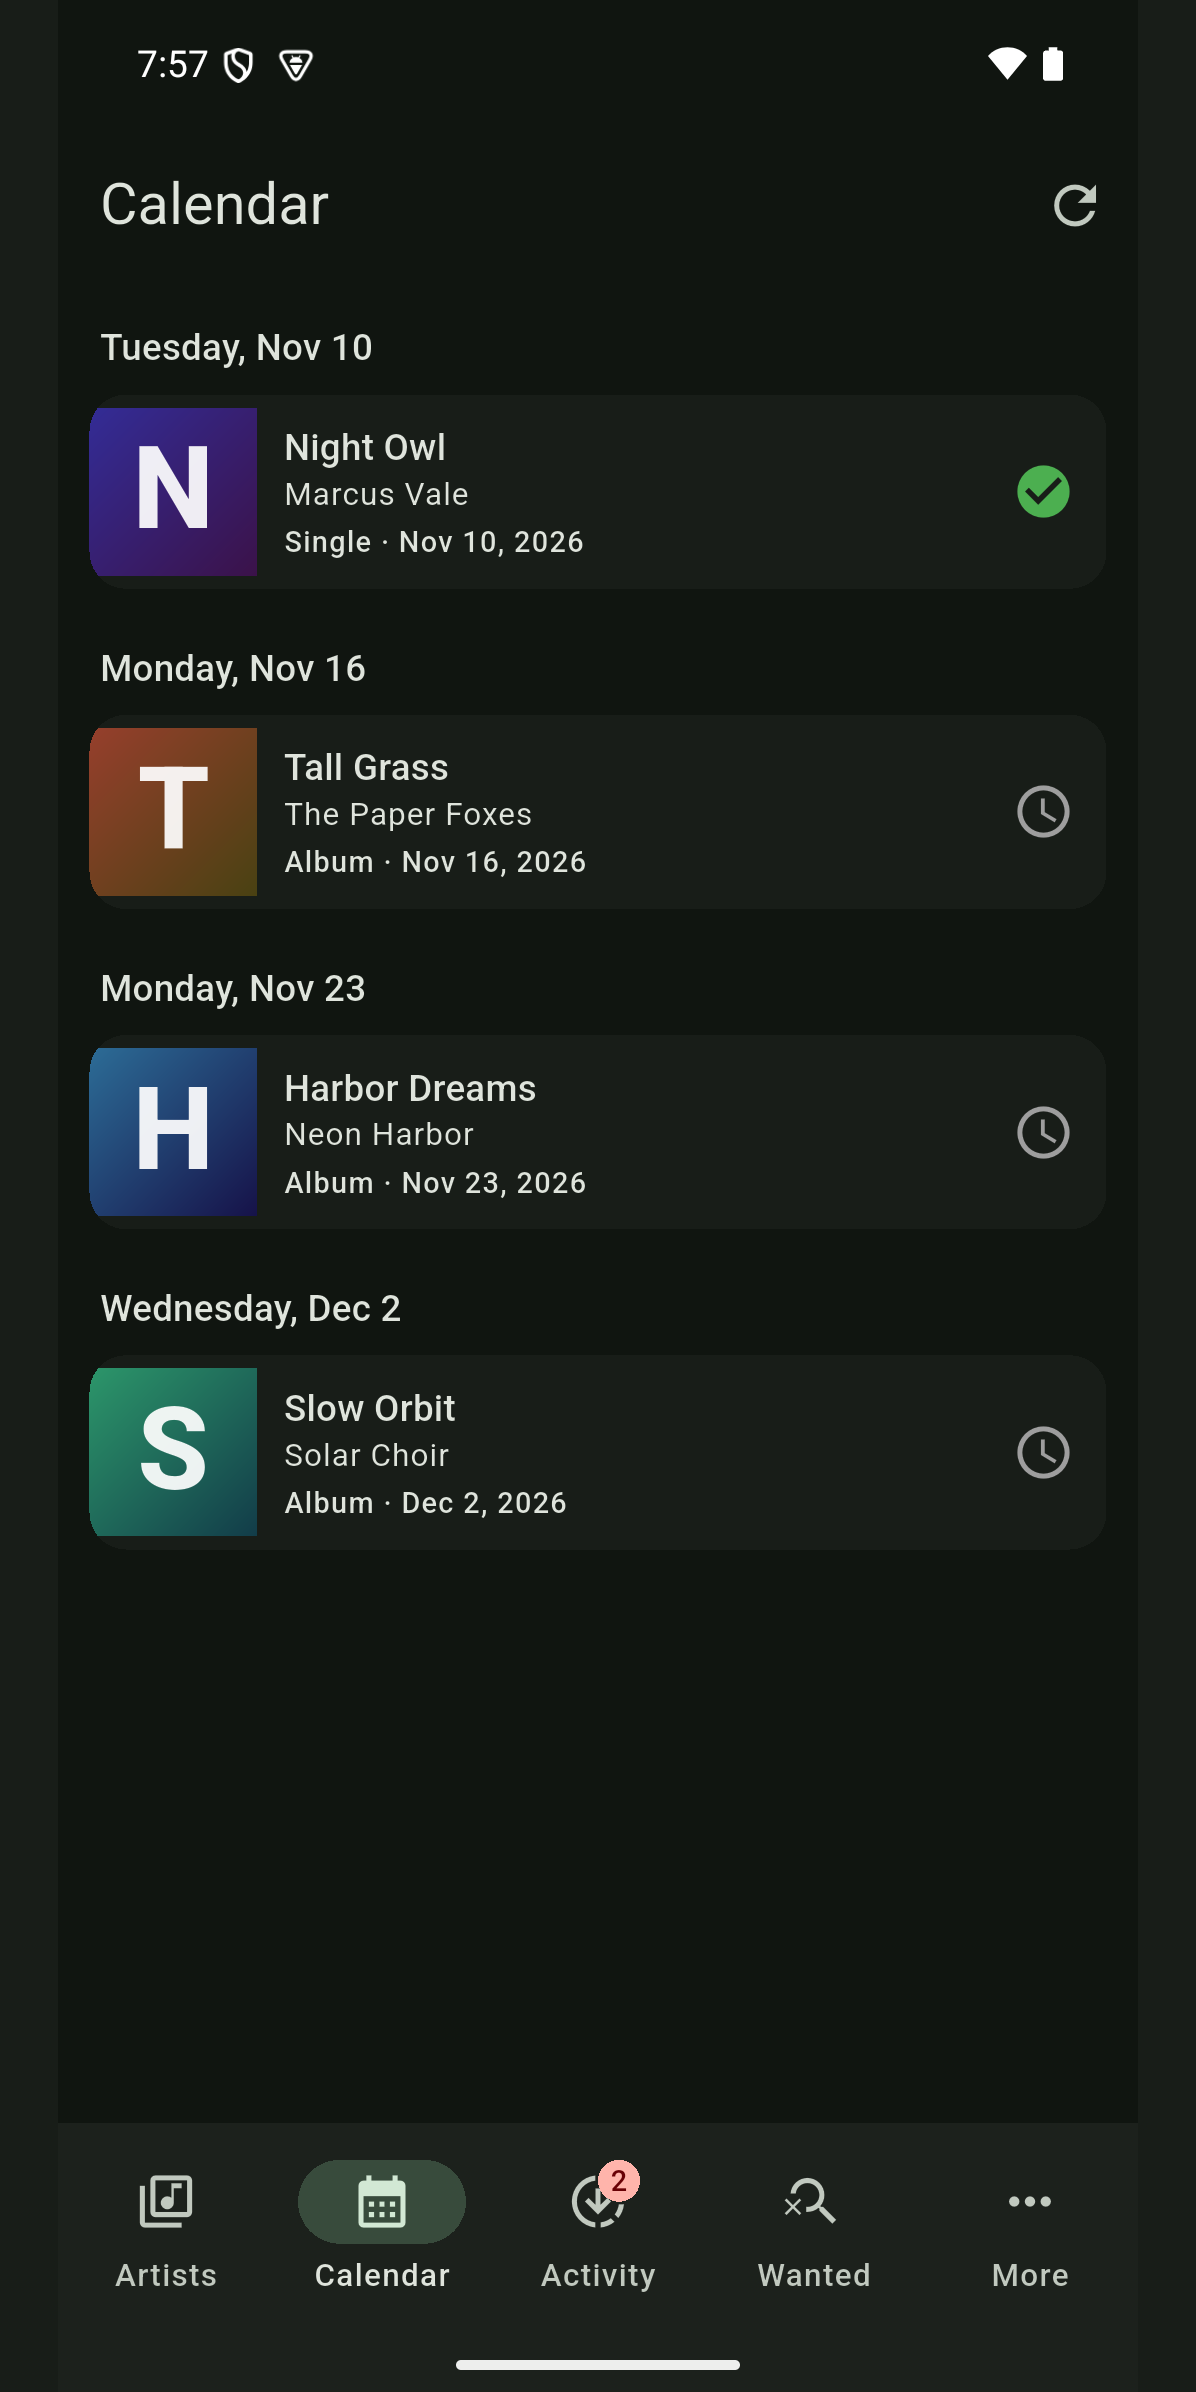
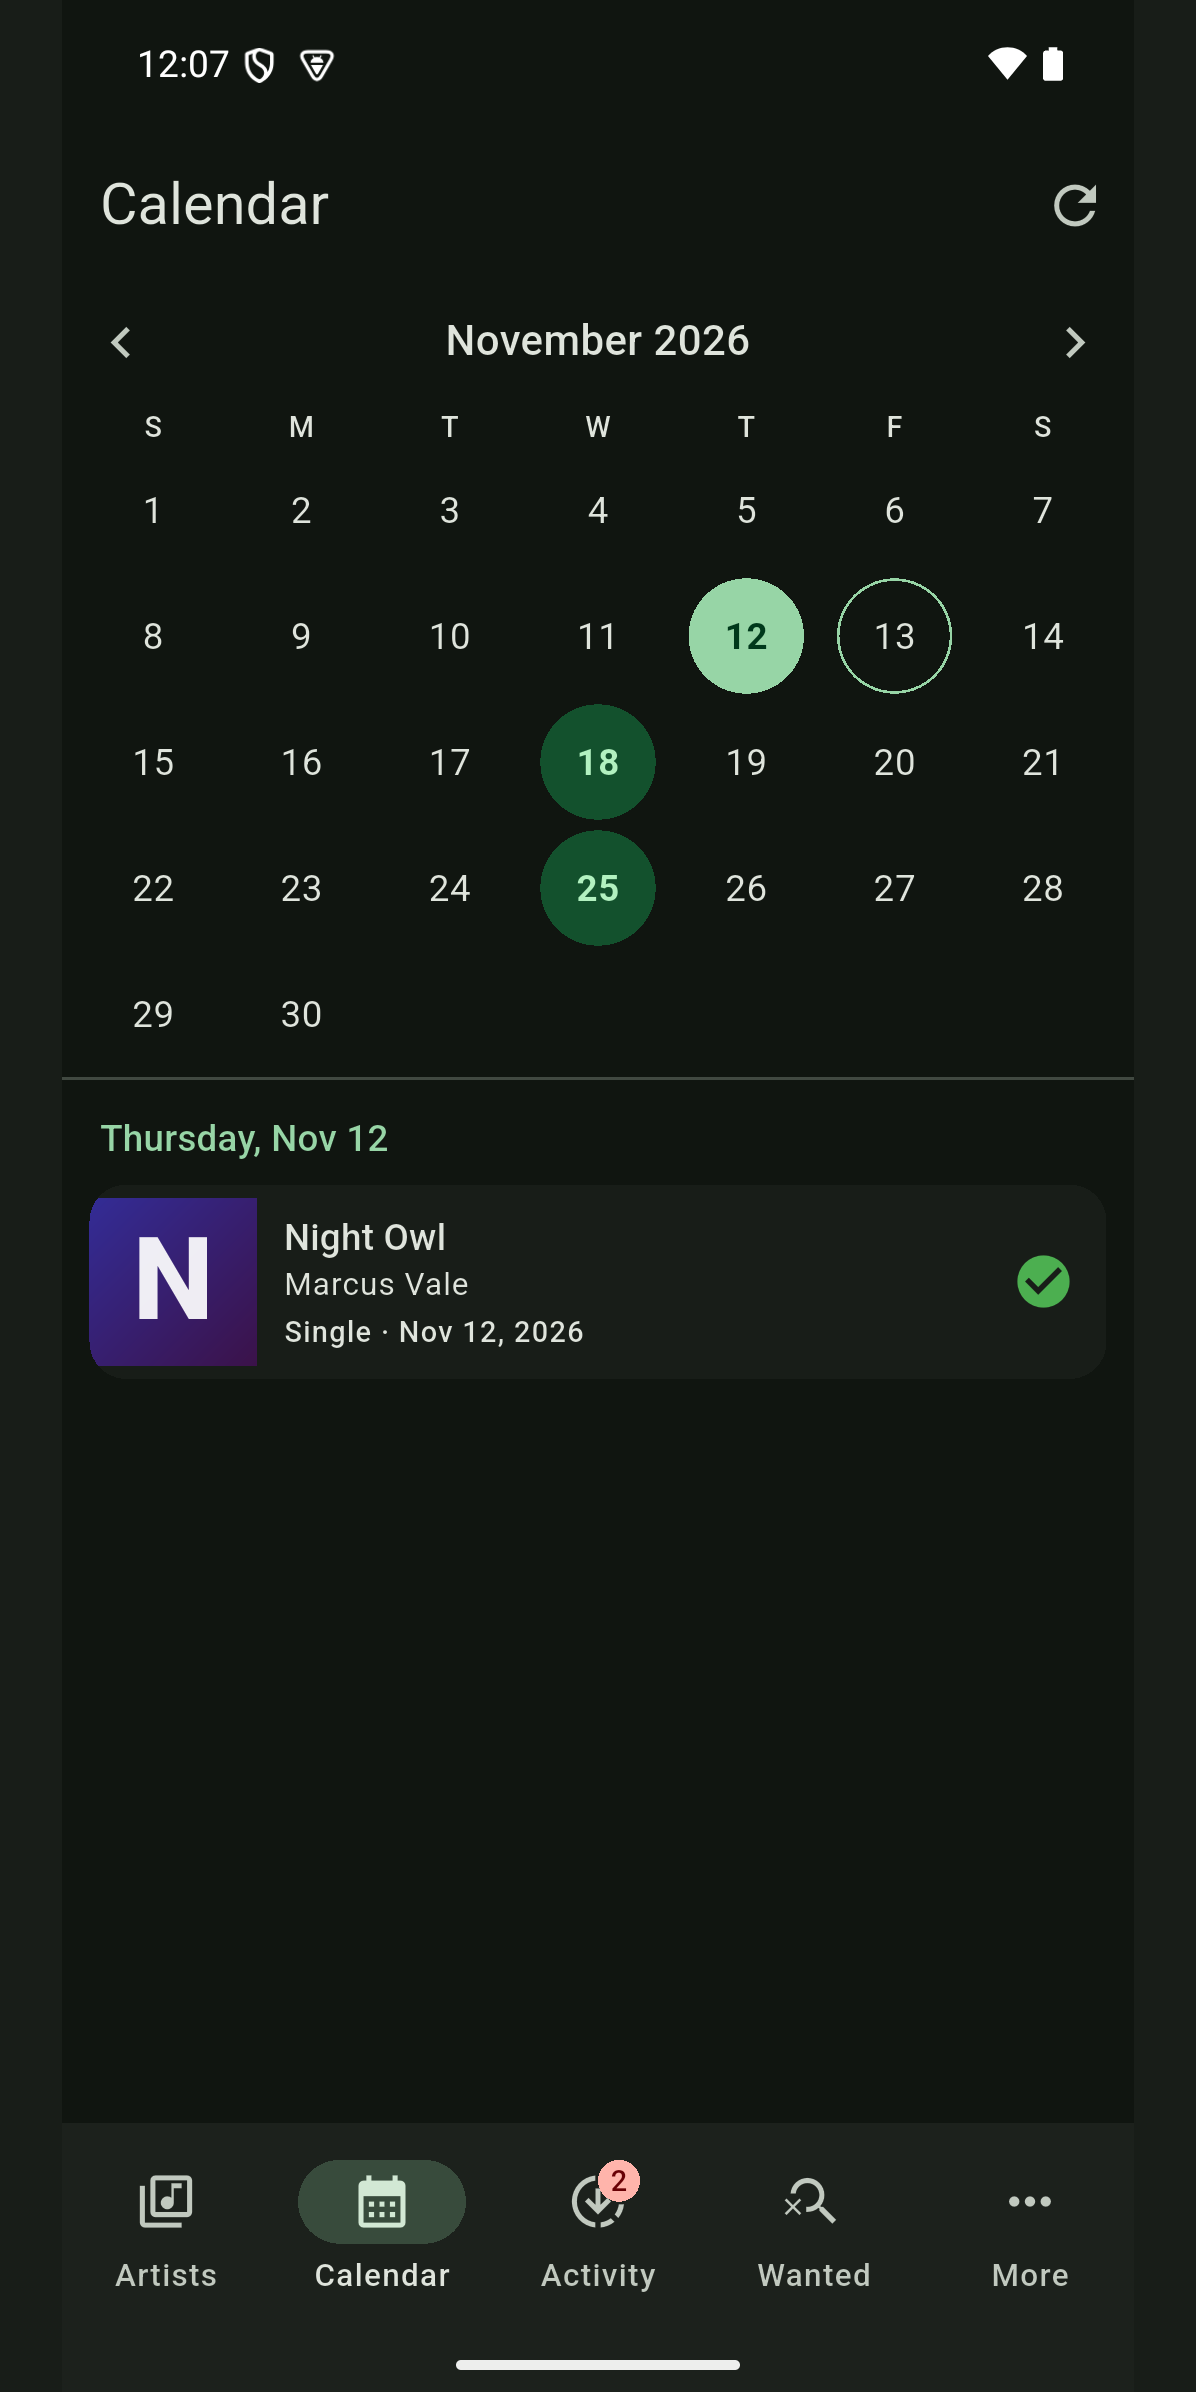
Calendar: full month grid with day selection

diff --git a/lib/screens/calendar_screen.dart b/lib/screens/calendar_screen.dart
@@ -13,6 +13,24 @@ class CalendarScreen extends StatefulWidget {
 
 class _CalendarScreenState extends State<CalendarScreen> {
   final _key = GlobalKey<AsyncBodyState<List<Json>>>();
+  static const _maxMonths = 12;
+  late final DateTime _today = _dateOnly(DateTime.now());
+  late DateTime _month = DateTime(_today.year, _today.month);
+  late DateTime _selected = _today;
+
+  static DateTime _dateOnly(DateTime d) => DateTime(d.year, d.month, d.day);
+
+  int get _offset =>
+      (_month.year - _today.year) * 12 + _month.month - _today.month;
+
+  void _goTo(int delta) {
+    final off = _offset + delta;
+    if (off.abs() > _maxMonths) return;
+    setState(() {
+      _month = DateTime(_today.year, _today.month + off);
+      _selected = off == 0 ? _today : _month;
+    });
+  }
 
   @override
   Widget build(BuildContext context) => Scaffold(
@@ -27,54 +45,169 @@ class _CalendarScreenState extends State<CalendarScreen> {
     ),
     body: AsyncBody<List<Json>>(
       key: _key,
-      load: (api) {
-        final today = DateTime.now();
-        final start = DateTime(today.year, today.month, today.day);
-        return api.calendar(
-          start.subtract(const Duration(days: 3)),
-          start.add(const Duration(days: 30)),
-        );
-      },
+      load: (api) => api.calendar(
+        DateTime(_today.year, _today.month - _maxMonths),
+        DateTime(_today.year, _today.month + _maxMonths + 1),
+      ),
       builder: (context, list) {
-        if (list.isEmpty) {
-          return const EmptyView(
-            Icons.calendar_month_outlined,
-            'Nothing scheduled',
-          );
-        }
         final byDay = <DateTime, List<Json>>{};
         for (final e in list) {
           final d = DateTime.tryParse('${e['releaseDate']}')?.toLocal();
           if (d == null) continue;
-          byDay.putIfAbsent(DateTime(d.year, d.month, d.day), () => []).add(e);
+          byDay.putIfAbsent(_dateOnly(d), () => []).add(e);
         }
-        final days = byDay.keys.toList()..sort();
-        final now = DateTime.now();
-        final today = DateTime(now.year, now.month, now.day);
-        return ListView(
-          padding: const EdgeInsets.only(bottom: 24),
+        final items = byDay[_selected] ?? const <Json>[];
+        return Column(
           children: [
-            for (final day in days) ...[
-              Padding(
-                padding: const EdgeInsets.fromLTRB(16, 16, 16, 4),
+            _header(context),
+            _grid(context, byDay),
+            const Divider(height: 1),
+            Padding(
+              padding: const EdgeInsets.fromLTRB(16, 12, 16, 4),
+              child: Align(
+                alignment: Alignment.centerLeft,
                 child: Text(
-                  day == today
+                  _selected == _today
                       ? 'Today'
-                      : DateFormat('EEEE, MMM d').format(day),
+                      : DateFormat('EEEE, MMM d').format(_selected),
                   style: Theme.of(context).textTheme.titleSmall?.copyWith(
-                    color: day == today
-                        ? Theme.of(context).colorScheme.primary
-                        : null,
+                    color: Theme.of(context).colorScheme.primary,
                   ),
                 ),
               ),
-              for (final e in byDay[day]!) AlbumCard(e),
-            ],
+            ),
+            Expanded(
+              child: items.isEmpty
+                  ? const EmptyView(
+                      Icons.calendar_month_outlined,
+                      'Nothing scheduled',
+                    )
+                  : ListView(
+                      padding: const EdgeInsets.only(bottom: 24),
+                      children: [for (final e in items) AlbumCard(e)],
+                    ),
+            ),
           ],
         );
       },
     ),
   );
+
+  Widget _header(BuildContext context) => Row(
+    children: [
+      IconButton(
+        icon: const Icon(Icons.chevron_left),
+        onPressed: _offset > -_maxMonths ? () => _goTo(-1) : null,
+      ),
+      Expanded(
+        child: Text(
+          DateFormat('MMMM yyyy').format(_month),
+          textAlign: TextAlign.center,
+          style: Theme.of(context).textTheme.titleMedium,
+        ),
+      ),
+      IconButton(
+        icon: const Icon(Icons.chevron_right),
+        onPressed: _offset < _maxMonths ? () => _goTo(1) : null,
+      ),
+    ],
+  );
+
+  Widget _grid(BuildContext context, Map<DateTime, List<Json>> byDay) {
+    final scheme = Theme.of(context).colorScheme;
+    final first = _month;
+    final lead = first.weekday % 7; // weeks start on Sunday
+    final count = DateUtils.getDaysInMonth(first.year, first.month);
+    final rows = ((lead + count) / 7).ceil();
+    const names = ['S', 'M', 'T', 'W', 'T', 'F', 'S'];
+    return GestureDetector(
+      onHorizontalDragEnd: (d) {
+        final v = d.primaryVelocity ?? 0;
+        if (v < -200) _goTo(1);
+        if (v > 200) _goTo(-1);
+      },
+      child: Padding(
+        padding: const EdgeInsets.symmetric(horizontal: 8),
+        child: Column(
+          children: [
+            Row(
+              children: [
+                for (final n in names)
+                  Expanded(
+                    child: Center(
+                      child: Text(
+                        n,
+                        style: Theme.of(context).textTheme.labelSmall,
+                      ),
+                    ),
+                  ),
+              ],
+            ),
+            for (var r = 0; r < rows; r++)
+              Row(
+                children: [
+                  for (var c = 0; c < 7; c++)
+                    Expanded(
+                      child: _cell(
+                        context,
+                        scheme,
+                        r * 7 + c - lead + 1,
+                        count,
+                        byDay,
+                      ),
+                    ),
+                ],
+              ),
+          ],
+        ),
+      ),
+    );
+  }
+
+  Widget _cell(
+    BuildContext context,
+    ColorScheme scheme,
+    int day,
+    int count,
+    Map<DateTime, List<Json>> byDay,
+  ) {
+    if (day < 1 || day > count) return const SizedBox(height: 44);
+    final date = DateTime(_month.year, _month.month, day);
+    final selected = date == _selected;
+    final has = byDay.containsKey(date);
+    final isToday = date == _today;
+    return InkWell(
+      customBorder: const CircleBorder(),
+      onTap: () => setState(() => _selected = date),
+      child: Container(
+        height: 44,
+        margin: const EdgeInsets.all(2),
+        decoration: BoxDecoration(
+          shape: BoxShape.circle,
+          color: selected
+              ? scheme.primary
+              : has
+              ? scheme.primaryContainer
+              : null,
+          border: isToday && !selected
+              ? Border.all(color: scheme.primary)
+              : null,
+        ),
+        alignment: Alignment.center,
+        child: Text(
+          '$day',
+          style: TextStyle(
+            fontWeight: has || selected ? FontWeight.bold : null,
+            color: selected
+                ? scheme.onPrimary
+                : has
+                ? scheme.onPrimaryContainer
+                : null,
+          ),
+        ),
+      ),
+    );
+  }
 }
 
 /// Card for an album that carries an embedded `artist` object.

diff --git a/.docs/PLAYBOOK.md b/.docs/PLAYBOOK.md
@@ -98,6 +98,16 @@ Symptom seen on a live server: the Activity queue and its badge stayed at 0 even
 - **Badge polling**: in `HomeScreen.didChangeAppLifecycleState` cancel the timer only on `paused` (not on `inactive`, which fires when the notification shade is pulled), restart on `resumed`.
 - Docs to update: `FEATURES.md` (Activity: 10 s refresh, no-cache, unknown items) and `ARCHITECTURE.md` (badge polling, silent reload).
 
+## 5d. Month-grid Calendar screen (implemented here first)
+
+Replaces the flat "next 30 days" list with a full month calendar. Pure Flutter, **no new dependency**; the whole change lives in `lib/screens/calendar_screen.dart` (+ docs). To port it to another *arr app (Sonarr, Radarr, Readarr…):
+
+1. **Data:** one request covers the whole navigable range: `api.calendar(DateTime(y, m - 12), DateTime(y, m + 13))` (first day of month-12 up to the first day of month+13, exclusive). Group the result by local date (`DateTime(d.year, d.month, d.day)`) into `Map<DateTime, List<Json>>`. Only the date field and the item card change per app: Lidarr uses `releaseDate` + `AlbumCard`; Sonarr uses `airDateUtc` + its episode card; Radarr uses `inCinemas`/`physicalRelease`/`digitalRelease` (pick/expand as needed). The demo server's `/calendar` must honour `start`/`end` (already the case).
+2. **State** (`_CalendarScreenState`): `_today`, `_month` (first day of the shown month), `_selected` (day). Month offset = `(month.year - today.year) * 12 + month.month - today.month`, clamped to `±_maxMonths` (12). Changing month selects day 1, or today when returning to the current month.
+3. **Layout** (inside `AsyncBody`'s builder, so loading/error/refresh stay as before): `Column` → header row (prev arrow · `MMMM yyyy` · next arrow; arrows disabled at the limits) → weekday letters + grid rows → `Divider` → selected-day title ("Today" or `EEEE, MMM d`) → `Expanded` list of that day's items, or the existing `EmptyView('Nothing scheduled')`.
+4. **Grid:** hand-built `Row`s of 7 `Expanded` cells (no package). Leading blanks = `first.weekday % 7` (Sunday-first); rows = `ceil((lead + daysInMonth) / 7)`. Cell: circle; **selected** = `primary` fill, **has items** = `primaryContainer` fill + bold, **today** = primary outline. Horizontal swipe (`GestureDetector.onHorizontalDragEnd`, velocity ±200) also changes month.
+5. **Docs/tests:** update the Calendar section of `FEATURES.md`, retake `06-calendar.png` (select a day that has releases) and keep README in sync. No test change was needed (`api.calendar` is unchanged).
+
 ## 6. Definition of done for a new app
 
 - [ ] `flutter analyze` clean, `flutter test` passes, release APK builds (JDK 17).

diff --git a/.docs/FEATURES.md b/.docs/FEATURES.md
@@ -41,7 +41,7 @@ Opened by tapping an album (artist detail, Calendar, Wanted); the manual-search 
 - `GET /release?albumId=`, `POST /release` (`guid`, `indexerId`)
 
 ## Calendar (`calendar_screen.dart`)
-- Album releases from 3 days ago to 30 days ahead, grouped by day ("Today" highlighted).
+- Full month calendar (Sunday-first) opening on the current month with today selected; prev/next arrows or horizontal swipe navigate up to ±12 months. Days with releases are highlighted; tapping a day selects it. Below the grid, the selected day's releases (or "Nothing scheduled") are listed. One request loads the whole ±12-month range.
 - Posters: album covers come from the album's own `images`; if an embedded album/artist has no `images`, `Poster` falls back to the artist's images looked up by id in the artist list (`AppState.artistImages()`, loaded once; `remoteUrl` is used because `/MediaCover` may redirect to the login page).
 - `GET /calendar?includeArtist=true`
 
